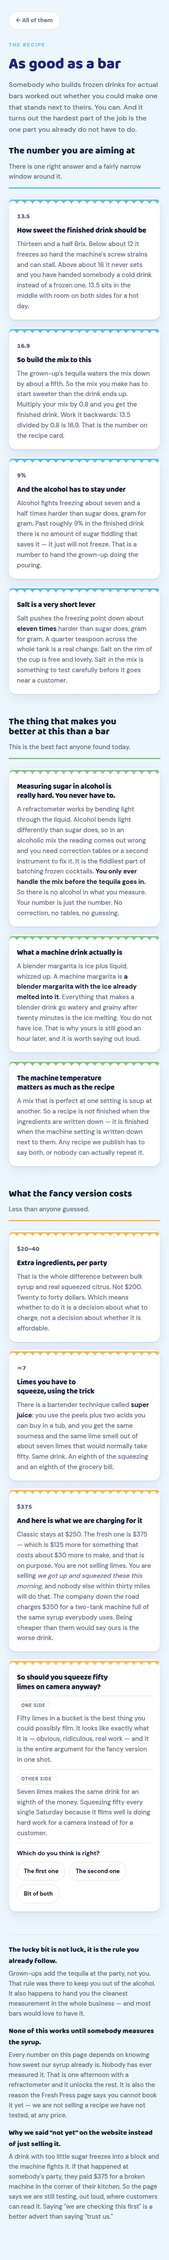
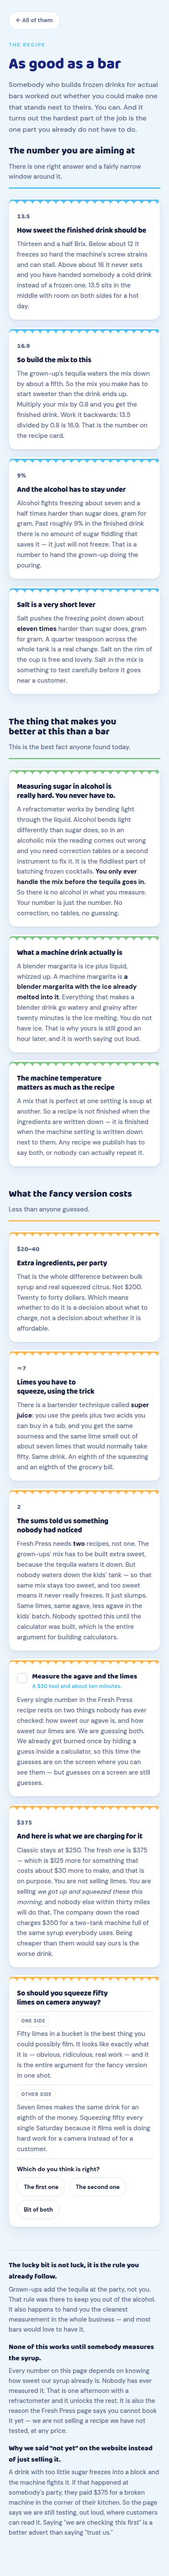
Build the Fresh Press base builder, and find the two-recipe problem
Mark asked to get the Brix measured and Fresh Press live. The measuring
is physical and cannot happen here, so this builds everything that makes
it a ten-minute job with a publishable result.

The base builder solves the sugar mass balance for a fresh-citrus mix:
given how much base you need and how sour you want it, it works out the
agave, the lime juice, the number of limes both ways (58 squeezing them
all, 9 with super juice), and the water.

Building it surfaced a real problem nobody had noticed. The 16.9 Brix
base target is correct only for the tank a grown-up pours tequila into —
the pour dilutes it to 13.5. Nothing is added to the kids' tank, so a
16.9 base stays at 16.9, which is over the ~16.5 ceiling and produces a
drink that never properly sets.

So Fresh Press needs two builds, not one: 16.9 for the grown-ups' tank
and 15 for the kids'. Same limes, same agave, less agave in the kids'
batch. The calculator shows the gap and names the fix in cups.

That has an operational tail the $20-40 ingredient figure does not
capture: Fresh Press means making two batches on the morning of a party.
Worth weighing before the tier goes live.

Both new inputs — agave Brix and lime Brix — are visible editable boxes
flagged as guesses, not constants hidden in the code. That is the direct
lesson from the mix calculator that confidently told people their working
recipe made a block of ice.

/lab also gains a written measurement plan: six steps, recorded before
[…]

Changed region(s): [[0.0308, 0.0, 0.9538, 0.9973]]

diff --git a/public/lab.html b/public/lab.html
@@ -403,6 +403,89 @@ footer a{color:var(--ice);}
 
 <section class="bg-blush">
 <div class="contain">
+<h2>Building the Fresh Press recipe</h2>
+<p class="lead">This is the one we have not made yet. Fresh Press is real limes and agave instead of syrup out of a jug, and the whole problem is getting the sugar right &mdash; because with fresh stuff you are mixing it yourself instead of following a label.</p>
+<p class="lead" style="margin-top:-18px;">Here is the maths, so you can watch us work it out.</p>
+
+<div class="tool">
+<h3>Try it: the Fresh Press base builder</h3>
+<p class="why">Tell it how much you need and how sour you want it. It works out how much agave to add so the sugar lands where the machine is happy.</p>
+<p class="why" style="background:var(--blush);border-radius:10px;padding:12px 14px;"><b>Two of these are guesses and we have marked them.</b> We have not measured our agave or our limes yet. We put a guess inside a calculator once before and it told everybody our best recipe was a block of ice &mdash; so this time the guesses are boxes you can see and change.</p>
+<div class="field">
+<label for="fpGal">How much base do you need (gallons)</label>
+<input type="number" id="fpGal" value="3" min="0.5" max="6" step="0.5">
+</div>
+<div class="field">
+<label for="fpSour">How sour &mdash; lime juice as a share of the base</label>
+<select id="fpSour">
+<option value="10">10% &mdash; gentle</option>
+<option value="15" selected>15% &mdash; about like a bar margarita</option>
+<option value="20">20% &mdash; properly sharp</option>
+</select>
+</div>
+<div class="field">
+<label for="fpAgave">How sweet your agave is (&deg;Brix) &mdash; <b>guess</b></label>
+<input type="number" id="fpAgave" value="76" min="50" max="90" step="1">
+</div>
+<div class="field">
+<label for="fpLime">How sweet lime juice is (&deg;Brix) &mdash; <b>guess</b></label>
+<input type="number" id="fpLime" value="8" min="2" max="14" step="0.5">
+</div>
+<div class="rows">
+<div class="r"><span>Agave to add</span><span id="fpA">&mdash;</span></div>
+<div class="r"><span>Lime juice to add</span><span id="fpL">&mdash;</span></div>
+<div class="r"><span>Limes that is, squeezing them all</span><span id="fpLimes">&mdash;</span></div>
+<div class="r"><span>Limes using the super juice trick</span><span id="fpSuper">&mdash;</span></div>
+<div class="r"><span>Water to add</span><span id="fpW">&mdash;</span></div>
+</div>
+
+<div class="readout" id="fpBoxA" style="margin-top:14px;">
+<span class="big" id="fpBrixA">&mdash;</span><span class="unit">&deg;Brix</span>
+<p class="verdict" id="fpVA">&mdash;</p>
+<p class="detail" id="fpDA">&mdash;</p>
+</div>
+<p class="why" style="margin-top:10px;"><b>Above:</b> what happens in the grown-ups&rsquo; tank, after somebody pours their tequila in. The tequila waters it down, so the base has to start sweeter than you want it to end up.</p>
+
+<div class="readout" id="fpBoxK" style="margin-top:14px;">
+<span class="big" id="fpBrixK">&mdash;</span><span class="unit">&deg;Brix</span>
+<p class="verdict" id="fpVK">&mdash;</p>
+<p class="detail" id="fpDK">&mdash;</p>
+</div>
+<p class="why" style="margin-top:10px;"><b>Below:</b> the exact same mix in the kids&rsquo; tank, where nobody adds anything to it.</p>
+</div>
+
+<div class="byo">
+<h3>We found something out doing this</h3>
+<p>The two readouts above do not match, and at first we thought the calculator was broken.</p>
+<p style="margin-top:8px;">It is not. A base built for grown-ups has to be extra sweet, because the tequila is going to water it down by about a fifth. But <b>nobody waters down the kids&rsquo; tank.</b> So the same mix that comes out perfect for the grown-ups comes out too sweet for the kids, and too sweet means it never really freezes &mdash; it just slumps in the cup.</p>
+<p style="margin-top:8px;"><b>So Fresh Press needs two recipes, not one.</b> Same limes, same agave, different amount of agave. We did not know that this morning. It came out of doing the sums, which is exactly what the sums are for.</p>
+</div>
+</div>
+</section>
+
+<section class="bg-light">
+<div class="contain">
+<h2>How we are actually going to measure it</h2>
+<p class="lead">Every number on this page is waiting on one ten-minute job nobody has done yet. Here is the plan, written down before we do it so we cannot quietly change it afterwards.</p>
+<div class="rows" style="gap:0;">
+<div class="r"><span><b>1.</b> Get a refractometer</span><span>about $30</span></div>
+<div class="r"><span><b>2.</b> Measure the syrup we already use, straight out of the jug</span><span>2 min</span></div>
+<div class="r"><span><b>3.</b> Measure a normal batch after mixing it with water</span><span>2 min</span></div>
+<div class="r"><span><b>4.</b> Check that against what the calculator up there predicted</span><span>1 min</span></div>
+<div class="r"><span><b>5.</b> Measure the agave and the lime juice</span><span>3 min</span></div>
+<div class="r"><span><b>6.</b> Write all five numbers on this page, right or wrong</span><span>&mdash;</span></div>
+</div>
+<p class="note">Step 4 is the interesting one. If the real number and the predicted number do not match, the calculator is wrong and we will say so here rather than quietly fixing it. That is the whole point of writing the plan down first.</p>
+<div class="byo">
+<h3>And then the part that actually takes time</h3>
+<p>Measuring is quick. Making the Fresh Press recipe <i>work</i> is not, because a real-fruit mix has to survive four hours in a tank on a Texas afternoon without separating, and the only way to find that out is to make it and watch it.</p>
+<p style="margin-top:8px;">That is why <a href="/fresh-press">the Fresh Press page</a> says you cannot book it yet. We would rather be slow than hand somebody a broken party.</p>
+</div>
+</div>
+</section>
+
+<section>
+<div class="contain">
 <h2>Things we got wrong</h2>
 <p class="lead">These stay up. If we only showed you the parts that worked, this would not be a lab, it would be an advert.</p>
 <div class="byo" style="margin-bottom:18px;">
@@ -434,6 +517,8 @@ footer a{color:var(--ice);}
 <div class="r"><span>Whether kids can even tell a no-dye version apart</span><span>Planned</span></div>
 <div class="r"><span>How many cups one tank really pours</span><span>Counting</span></div>
 <div class="r"><span>How sweet our own syrup actually is, with the refractometer</span><span>First up</span></div>
+<div class="r"><span>How sweet our agave and our limes are</span><span>Same day</span></div>
+<div class="r"><span>Whether a fresh-fruit mix separates over four hours in a hot tank</span><span>Gates Fresh Press</span></div>
 <div class="r"><span>Whether a drink sweetened only with sucralose freezes solid</span><span>Planned</span></div>
 <div class="r"><span>Whether butterfly pea flower really turns pink in the cup</span><span>Planned</span></div>
 </div>
@@ -530,6 +615,70 @@ footer a{color:var(--ice);}
   }
   guests.addEventListener('input',cups); hours.addEventListener('input',cups);
   weather.addEventListener('change',cups); cups();
+
+  // --- Fresh Press base builder ----------------------------------------
+  // Mass balance on sugar, treating Brix as percent sugar by weight and the
+  // densities as close enough at these concentrations:
+  //   Brix_base x Total = Brix_lime x Lime + Brix_agave x Agave
+  // Lime volume is fixed by how sour you want it, so agave is what solves.
+  //
+  // Two targets, not one. The grown-ups' tank gets tequila poured in at the
+  // party, which dilutes it to about 0.8x — so that base is built high. The
+  // kids' tank has nothing added, so it must be built at the final number.
+  var ADULT_BASE = 16.9, KID_BASE = 15, DILUTION = 0.8;
+  var fpGal=document.getElementById('fpGal'), fpSour=document.getElementById('fpSour'),
+      fpAgave=document.getElementById('fpAgave'), fpLime=document.getElementById('fpLime');
+
+  function fpOz(oz){
+    if(oz>=128) return (oz/128).toFixed(2).replace(/\.?0+$/,'')+' gal';
+    if(oz>=8)   return (oz/8).toFixed(1).replace(/\.0$/,'')+' cups';
+    return Math.round(oz)+' fl oz';
+  }
+  function fp(){
+    var totalOz=(parseFloat(fpGal.value)||0)*128;
+    var limeOz=totalOz*(parseFloat(fpSour.value)/100);
+    var bA=parseFloat(fpAgave.value)||0, bL=parseFloat(fpLime.value)||0;
+
+    // Solve for the adult base; the kids' build differs only in target.
+    function agaveFor(target){
+      if(bA<=0) return 0;
+      return Math.max(0,(target*totalOz - bL*limeOz)/bA);
+    }
+    var agaveOz=agaveFor(ADULT_BASE);
+    var waterOz=Math.max(0,totalOz-limeOz-agaveOz);
+
+    // A lime yields roughly 1 fl oz of juice. Super juice gets the same acid
+    // and aroma from about a seventh as many, using the peels plus acid.
+    document.getElementById('fpA').textContent=fpOz(agaveOz);
+    document.getElementById('fpL').textContent=fpOz(limeOz);
+    document.getElementById('fpLimes').textContent=Math.ceil(limeOz)+' limes';
+    document.getElementById('fpSuper').textContent=Math.ceil(limeOz/7)+' limes';
+    document.getElementById('fpW').textContent=fpOz(waterOz);
+
+    // What the base actually measures, then what each tank ends up at.
+    var baseBrix=(bL*limeOz + bA*agaveOz)/totalOz;
+    var adult=baseBrix*DILUTION, kid=baseBrix;
+
+    function show(val,boxId,numId,vId,dId,label){
+      var b=band(val), box=document.getElementById(boxId);
+      document.getElementById(numId).textContent=val.toFixed(1);
+      document.getElementById(vId).textContent=label+' '+b[0];
+      document.getElementById(dId).textContent=b[1];
+      box.classList.toggle('warn',!!b[2]);
+    }
+    show(adult,'fpBoxA','fpBrixA','fpVA','fpDA','With tequila added:');
+    show(kid,'fpBoxK','fpBrixK','fpVK','fpDK','Kids’ tank, nothing added:');
+
+    // If the kids' tank misses, say by how much rather than just flagging it.
+    var kidAgave=agaveFor(KID_BASE);
+    var d=document.getElementById('fpDK');
+    if(kid>16.5){
+      d.textContent += ' To fix it, build the kids’ batch with '
+        + fpOz(kidAgave) + ' of agave instead of ' + fpOz(agaveOz) + '.';
+    }
+  }
+  [fpGal,fpAgave,fpLime].forEach(function(el){el.addEventListener('input',fp);});
+  fpSour.addEventListener('change',fp); fp();
 
   // --- sortable sweetener table ---------------------------------------
   var tbl=document.getElementById('pac'),tb=tbl.tBodies[0];

diff --git a/public/fresh-press.html b/public/fresh-press.html
@@ -144,7 +144,8 @@ footer a{color:var(--ice);}
 <span class="tag">Status: in testing</span>
 <p><b>You cannot book this yet, and here is exactly why.</b> A frozen drink machine needs sugar to freeze properly. Take too much sugar out and the mix freezes into a block, the machine strains, and someone&rsquo;s party has a broken machine in the corner of it.</p>
 <p>So we are running the freeze test first, on our own machine, in our own garage, until the recipe is reliable at the temperature the machine actually holds. When it passes, this page changes and you can book it. We would rather be late than be the reason your party went wrong.</p>
-<p><a href="/lab" style="color:var(--ink-ice);font-weight:600;">Follow the test in the Lab &rarr;</a></p>
+<p><b>Where it is up to right now:</b> the maths is done and both recipes are worked out. What is not done is the measuring &mdash; we have never checked how sweet our agave or our limes actually are, and the whole recipe rests on those two numbers. That is a $30 tool and about ten minutes. After that comes the slow part: making a batch and watching it sit in a hot tank for four hours to see whether it separates.</p>
+<p><a href="/lab" style="color:var(--ink-ice);font-weight:600;">Follow it in the Lab, including the bit where we are still guessing &rarr;</a></p>
 </div>
 </div>
 </section>
@@ -158,7 +159,13 @@ footer a{color:var(--ice);}
   <div class="cell"><div class="n">16.9</div><div class="l">Brix in the base we make</div><div class="d">The tequila a grown-up adds waters the mix down by about a fifth. So the base starts sweeter and lands at 13.5. Finished = base &times; 0.8.</div></div>
   <div class="cell"><div class="n">&lt;9%</div><div class="l">Alcohol in the finished drink</div><div class="d">Alcohol fights freezing about 7.4&times; harder than sugar does. Past 9% no amount of sugar saves the texture. This one is a number for whoever is pouring.</div></div>
 </div>
-<div class="note"><p><b>Here is the part we did not expect.</b> Measuring sugar in an alcoholic mix is genuinely hard &mdash; alcohol bends light differently than sugar, so the reading comes out wrong and you need correction tables to fix it. Finley and Harper only ever handle the base, before any alcohol goes in. So their reading needs no correction at all. The rule that keeps two kids away from tequila happens to give them a cleaner measurement than most bars have.</p></div>
+<div class="note"><p><b>Here is the part we did not expect.</b> Measuring sugar in an alcoholic mix is genuinely hard &mdash; alcohol bends light differently than sugar, so the reading comes out wrong and you need correction tables to fix it. Harper and Finley only ever handle the base, before any alcohol goes in. So their reading needs no correction at all. The rule that keeps two kids away from tequila happens to give them a cleaner measurement than most bars have.</p></div>
+
+<div class="note" style="border-left-color:var(--citrus);margin-top:18px;">
+<p><b>And here is what the arithmetic told us afterwards: Fresh Press needs two recipes, not one.</b></p>
+<p style="margin-top:9px;">The base is built sweet on purpose, because the tequila a grown-up adds waters it down by about a fifth and lands it at 13.5. But nothing gets added to the kids&rsquo; tank &mdash; so that same base stays at 16.9, which is too sweet to freeze properly. It slumps in the cup instead of holding a shape.</p>
+<p style="margin-top:9px;">Same limes, same agave, less of it. We did not know that until we did the sums, and you can do them yourself in <a href="/lab" style="color:var(--citrus);font-weight:600;">the base builder in the Lab</a>.</p>
+</div>
 </div>
 </section>
 

diff --git a/public/read/as-good-as-a-bar.html b/public/read/as-good-as-a-bar.html
@@ -282,12 +282,31 @@ footer .fi p{color:var(--soft);font-size:.9rem;}
 <article class="card">
   <div class="slush"></div>
   <div class="body">
+    <p class="big">2</p>
+    <h3>The sums told us something nobody had noticed</h3>
+    <p>Fresh Press needs <b>two</b> recipes, not one. The grown-ups' mix has to be built extra sweet, because the tequila waters it down. But nobody waters down the kids' tank — so that same mix stays too sweet, and too sweet means it never really freezes. It just slumps. Same limes, same agave, less agave in the kids' batch. Nobody spotted this until the calculator was built, which is the entire argument for building calculators.</p>
+  </div>
+</article>
+<article class="card unknown">
+  <div class="slush"></div>
+  <div class="body">
+    <label class="check">
+      <input type="checkbox" data-unknown="u16">
+      <span class="box" aria-hidden="true"></span>
+      <span class="ct"><b>Measure the agave and the limes</b><em>A $30 tool and about ten minutes.</em></span>
+    </label>
+    <p>Every single number in the Fresh Press recipe rests on two things nobody has ever checked: how sweet our agave is, and how sweet our limes are. We are guessing both. We already got burned once by hiding a guess inside a calculator, so this time the guesses are on the screen where you can see them — but guesses on a screen are still guesses.</p>
+  </div>
+</article>
+<article class="card">
+  <div class="slush"></div>
+  <div class="body">
     <p class="big">$375</p>
     <h3>And here is what we are charging for it</h3>
     <p>Classic stays at $250. The fresh one is $375 — which is $125 more for something that costs about $30 more to make, and that is on purpose. You are not selling limes. You are selling <i>we got up and squeezed these this morning</i>, and nobody else within thirty miles will do that. The company down the road charges $350 for a two-tank machine full of the same syrup everybody uses. Being cheaper than them would say ours is the worse drink.</p>
   </div>
 </article>
-<article class="card debate" data-debate="d16">
+<article class="card debate" data-debate="d17">
   <div class="slush"></div>
   <div class="body">
     <h3>So should you squeeze fifty limes on camera anyway?</h3>

diff --git a/docs/board/reading-room.js b/docs/board/reading-room.js
@@ -671,6 +671,13 @@ const PAGES = [
     ['number', 'Limes you have to squeeze, using the trick', '≈7',
      `There is a bartender technique called <b>super juice</b>: you use the peels plus two acids you can buy in a tub, and you get the same sourness and the same lime smell out of about seven limes that would normally take fifty. Same drink. An eighth of the squeezing and an eighth of the grocery bill.`],
 
+    ['number', 'The sums told us something nobody had noticed', '2',
+     `Fresh Press needs <b>two</b> recipes, not one. The grown-ups' mix has to be built extra sweet, because the tequila waters it down. But nobody waters down the kids' tank — so that same mix stays too sweet, and too sweet means it never really freezes. It just slumps. Same limes, same agave, less agave in the kids' batch. Nobody spotted this until the calculator was built, which is the entire argument for building calculators.`],
+
+    ['unknown', 'Measure the agave and the limes',
+     'A $30 tool and about ten minutes.',
+     `Every single number in the Fresh Press recipe rests on two things nobody has ever checked: how sweet our agave is, and how sweet our limes are. We are guessing both. We already got burned once by hiding a guess inside a calculator, so this time the guesses are on the screen where you can see them — but guesses on a screen are still guesses.`],
+
     ['number', 'And here is what we are charging for it', '$375',
      `Classic stays at $250. The fresh one is $375 — which is $125 more for something that costs about $30 more to make, and that is on purpose. You are not selling limes. You are selling <i>we got up and squeezed these this morning</i>, and nobody else within thirty miles will do that. The company down the road charges $350 for a two-tank machine full of the same syrup everybody uses. Being cheaper than them would say ours is the worse drink.`],
 

diff --git a/public/read/what-do-we-call-it.html b/public/read/what-do-we-call-it.html
@@ -256,7 +256,7 @@ footer .fi p{color:var(--soft);font-size:.9rem;}
     <p>Six of our pages exist only to be found by people typing "margarita machine rental" into Google — about 900 people a month. <b>Those pages never change.</b> A new name goes on the front page and the pages people read once they have already found us. Swap the words on the Google pages and we lose the 900 and gain a phrase nobody is searching for.</p>
   </div>
 </article>
-<article class="card debate" data-debate="d17">
+<article class="card debate" data-debate="d18">
   <div class="slush"></div>
   <div class="body">
     <h3>Should you invent a completely new kind of business?</h3>
@@ -305,7 +305,7 @@ footer .fi p{color:var(--soft);font-size:.9rem;}
   <div class="slush"></div>
   <div class="body">
     <label class="check">
-      <input type="checkbox" data-unknown="u18">
+      <input type="checkbox" data-unknown="u19">
       <span class="box" aria-hidden="true"></span>
       <span class="ct"><b>Can you both say the name out loud without laughing?</b><em>Costs nothing. Takes five minutes.</em></span>
     </label>

diff --git a/docs/category-and-bar-program.md b/docs/category-and-bar-program.md
@@ -49,7 +49,30 @@ Finished Brix = Base Brix × 0.8
 ```
 
 So to land a finished drink at 13.5 Brix, **build the base to 16.9 Brix.**
-That is the single number the recipe card needs.
+
+### Correction, 2026-08-04: that is not one number, it is two
+
+Building the base builder for `/lab` surfaced something the report missed.
+16.9 is correct **only for the tank a grown-up pours tequila into.** Nothing is
+added to the kids' tank, so a 16.9 base stays at 16.9 — which is above the
+~16.5 ceiling and produces a drink that never properly sets. Sweet, slumping,
+technically not frozen.
+
+**Fresh Press therefore needs two builds, not one:**
+
+| | Base target | What happens to it | Lands at |
+| --- | --- | --- | --- |
+| Grown-ups' tank | **16.9 Brix** | diluted ~0.8× by the pour | 13.5 |
+| Kids' tank | **15 Brix** | nothing added | 15 |
+
+Same limes, same agave, less agave in the kids' batch — at 3 gallons and 15%
+lime, about 8.7 cups instead of 9.9. The calculator on `/lab` shows the gap and
+names the fix.
+
+This is a small correction with an operational tail: **Fresh Press means making
+two batches on the morning of a party, not one.** That is a real labour cost
+that the $20–40 ingredient figure does not capture, and it should be weighed
+before the tier goes live.
 
 ### Salt
 
